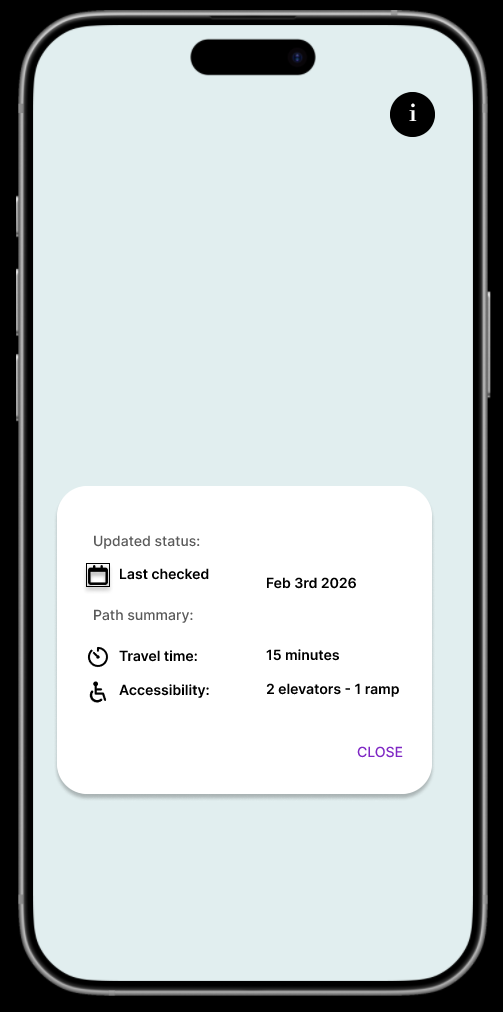
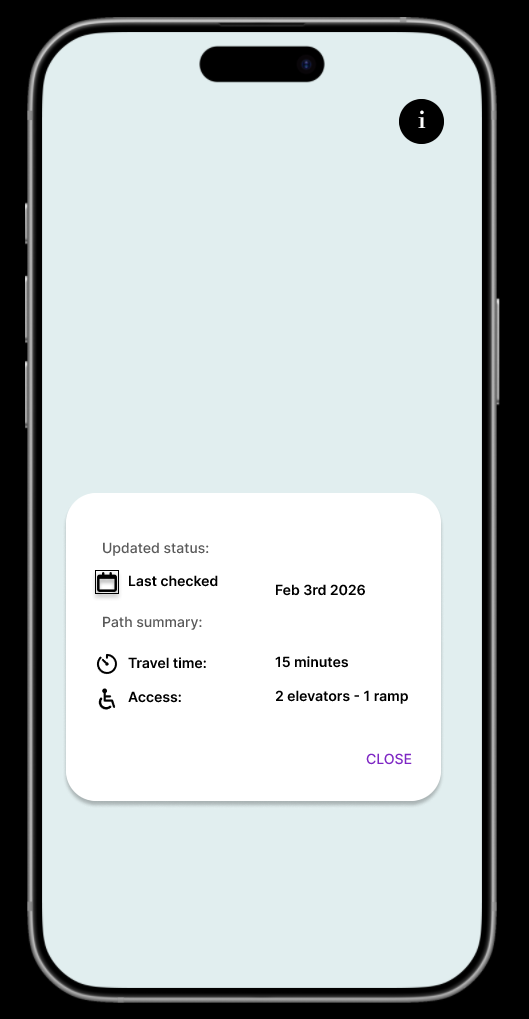
enhanced feature

diff --git a/feature-enhancement/TASK-INFO-POPUP.md b/feature-enhancement/TASK-INFO-POPUP.md
@@ -23,7 +23,7 @@ Propose what the Info popup should show instead of only a floor plan update date
 ### Description
 _Write a concise description of the enhancement._
 
-_Info Popup icon appears only when user selects start/destination and path is suggested. It shows update time. Path details can be added to the Info Popup.These details are: -Time(minute) -Distance(meters) -Accessability. Accessability details show the number of facilities on the path to help user be more cautious about the path and be informed._
+_Info Popup icon appears only when user selects start/destination and path is suggested. It shows updated map date. Path details can be added to the Info Popup.These details are: - Travel time(minute) - Access. Access details show the number of facilities on the path to help user be more cautious about the path and be informed._
 
 ### Example content
 _Provide example text/structure you would show in the popup._
